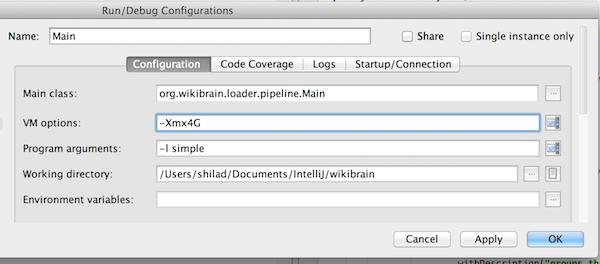
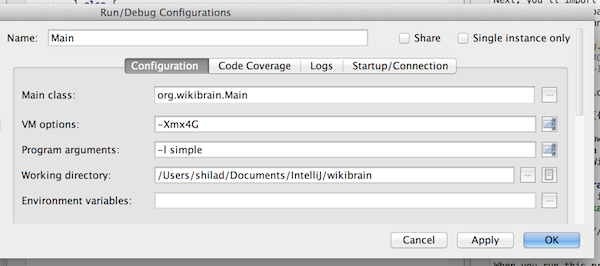
Updated image to new Pipeline class

diff --git a/tutorial/quickstart.md b/tutorial/quickstart.md
@@ -33,7 +33,7 @@ Next, you'll import Simple English Wikipedia.
 Run the pipeline loader which downloads, parses, and imports the data into an embedded [h2 database](http://www.h2database.com/html/main.html) (you can use Postgresql instead by changing the [configuration file]({{ site.url }}/tutorial/configuration.html)).
 The details for running the loader are as follows:
  
- * main class: `org.wikibrain.loader.pipeline.Main`
+ * main class: `org.wikibrain.Main`
  * JVM args: `-Xmx4G`
  * program args: `-l simple`
 
